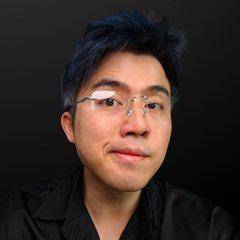
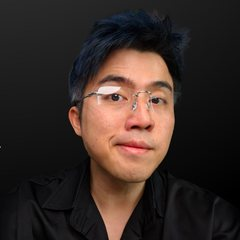
Add files via upload

diff --git a/index.html b/index.html
@@ -233,10 +233,12 @@ footer .w{display:flex;justify-content:space-between;gap:12px;flex-wrap:wrap}
 <article class="lc" id="lc-p-bao"><div class="lp"><div class="av"><img alt="Baobaochow" loading="lazy" src="img/sp-p-baobaochow.jpg"/></div><div><h4>Baobaochow</h4><small>Photographer</small></div></div><div class="lm"><div class="ltag">True Portrait</div><h5>Natural Light Portraits</h5><p>Good portraits start with finding the right light. Learn to spot soft, flattering light, place your subject in it, and keep skin tones and mood true to the moment.</p></div><div class="lr"><div class="ld"><b>15 NOV</b></div><div class="lt2">3.00PM&ndash;7.00PM</div><div class="ll">Robert&rsquo;s Wooden House, Sibu, Sarawak</div></div></article>
 <div class="lreg"><a class="btn" href="https://tinyurl.com/5ncrpnzc" rel="noopener" target="_blank">Register Here</a></div>
 </div></div>
-<div class="lt" id="zoom"><div class="eyebrow">Zoom Theme &middot; 21&ndash;22 Nov 2026</div><h3>True Zoom</h3><p class="sub">Five masterclasses reach further, from distant landscapes and wildlife to people caught at the peak of the moment.</p><div class="lcs">
+<div class="lt" id="zoom"><div class="eyebrow">Zoom Theme &middot; 21&ndash;22 Nov 2026</div><h3>True Zoom</h3><p class="sub">Seven masterclasses reach further, from distant landscapes and wildlife to people caught at the peak of the moment.</p><div class="lcs">
 <article class="lc" id="lc-z-bojio"><div class="lp"><div class="av"><img alt="Bojio杰哥" loading="lazy" src="img/sp-z-bojio.jpg"/></div><div><h4>Bojio杰哥</h4><small>Photographer</small></div></div><div class="lm"><div class="ltag">True Zoom</div><h5>Get Closer Without Moving</h5><p>Some subjects are too far, too busy or too shy to walk up to. Learn to use zoom to isolate what matters, keep the frame clean, and capture natural moments from a distance without disturbing the scene.</p></div><div class="lr"><div class="ld"><b>21 NOV</b></div><div class="lt2">10.00AM&ndash;2.00PM</div><div class="ll">Zoo Johor + Sama-sama Cuisine, Johor Bahru</div></div></article>
 <article class="lc" id="lc-z-reez"><div class="lp"><div class="av"><img alt="Reez" loading="lazy" src="img/sp-z-reez.jpg"/></div><div><h4>Reez</h4><small>Photographer</small></div></div><div class="lm"><div class="ltag">True Zoom</div><h5>Seeing Landscapes Differently</h5><p>Go beyond the wide shot. Learn to use zoom and different focal lengths to bring distant scenery closer, highlight hidden details, and create stronger landscape compositions.</p></div><div class="lr"><div class="ld"><b>21 NOV</b></div><div class="lt2">2.00PM&ndash;6.00PM</div><div class="ll">Pavilion Bukit Bintang + Lookout Point @ Changkat Tunku, Kuala Lumpur</div></div></article>
+<article class="lc" id="lc-z-zairul"><div class="lp"><div class="av"><img alt="Zairul Puad" loading="lazy" src="img/sp-zairul.jpg"/></div><div><h4>Zairul Puad</h4><small>Photographer</small></div></div><div class="lm"><div class="ltag">True Zoom</div><h5>Stories from a Distance</h5><p>Zoom lets you choose exactly what goes into the story and what stays out. Learn to pair a mural with a passerby, frame small moments from across the street, and build a series of shots that tells one story.</p></div><div class="lr"><div class="ld"><b>21 NOV</b></div><div class="lt2">2.00PM&ndash;6.00PM</div><div class="ll">My OPPO Space @ East Coast Mall + Kuantan Art Street, Kuantan</div></div></article>
 <article class="lc" id="lc-z-kelvin"><div class="lp"><div class="av"><img alt="Kelvin Chan" loading="lazy" src="img/sp-c-kelvin.jpg"/></div><div><h4>Kelvin Chan</h4><small>Photographer</small></div></div><div class="lm"><div class="ltag">True Zoom</div><h5>See Further, Frame Better</h5><p>From a bird on a branch to a boat on the river, zoom brings distant subjects into a clean, simple frame. Learn to spot what is worth reaching for, compose it with intent, and keep detail sharp at a distance.</p></div><div class="lr"><div class="ld"><b>21 NOV</b></div><div class="lt2">3.00PM&ndash;6.30PM</div><div class="ll">GoldenBay Hotel Bintulu</div></div></article>
+<article class="lc" id="lc-z-yusuf"><div class="lp"><div class="av"><img alt="Yusuf Madi" loading="lazy" src="img/sp-yusufmadi.jpg"/></div><div><h4>Yusuf Madi</h4><small>Photographer</small></div></div><div class="lm"><div class="ltag">True Zoom</div><h5>Layers in the Landscape</h5><p>From high ground, zoom pulls distant hills, sea and sky closer together into layers. Learn to compress a wide view into a tighter, stronger frame, and place a person in it to give the scene scale.</p></div><div class="lr"><div class="ld"><b>21 NOV</b></div><div class="lt2">3.00PM&ndash;7.00PM</div><div class="ll">Hillside Kokol, Kota Kinabalu</div></div></article>
 <article class="lc" id="lc-z-haziq"><div class="lp"><div class="av"><img alt="Haziq Zuki" loading="lazy" src="img/sp-haziqzuki.jpg"/></div><div><h4>Haziq Zuki</h4><small>Photographer</small></div></div><div class="lm"><div class="ltag">True Zoom</div><h5>Catching the Moment</h5><p>Zoom lets you capture people in action without stepping into the scene. Learn to anticipate movement, track your subject from a distance and press the shutter at the peak of the moment.</p></div><div class="lr"><div class="ld"><b>21 NOV</b></div><div class="lt2">4.00PM&ndash;8.30PM</div><div class="ll">Ferringhi Heart Beach Club, Penang</div></div></article>
 <article class="lc" id="lc-z-wanxin"><div class="lp"><div class="av"><img alt="Wan Xin" loading="lazy" src="img/sp-z-wanxin.jpg"/></div><div><h4>Wan Xin</h4><small>Photographer</small></div></div><div class="lm"><div class="ltag">True Zoom</div><h5>Zoom Into Details</h5><p>Sometimes, the best way to capture a moment is to get closer without being seen. Zoom allows us to observe quietly, anticipate the moment, and preserve it just as it happens.</p></div><div class="lr"><div class="ld"><b>22 NOV</b></div><div class="lt2">9.00AM&ndash;1.00PM</div><div class="ll">Tasik Cermin Ipoh</div></div></article>
 <div class="lreg"><a class="btn" href="https://tinyurl.com/5ncrpnzc" rel="noopener" target="_blank">Register Here</a></div>
@@ -487,11 +489,13 @@ var DATA={"content/copy.json":{
       "title": "Zoom",
       "type": "class",
       "time": "True Zoom",
-      "venue": "5 locations nationwide",
+      "venue": "7 locations nationwide",
       "locations": [
         {"name": "Johor Bahru", "target": "lc-z-bojio"},
         {"name": "Kuala Lumpur", "target": "lc-z-reez"},
+        {"name": "Kuantan", "target": "lc-z-zairul"},
         {"name": "Bintulu", "target": "lc-z-kelvin"},
+        {"name": "Kota Kinabalu", "target": "lc-z-yusuf"},
         {"name": "Penang", "target": "lc-z-haziq"},
         {"name": "Ipoh", "target": "lc-z-wanxin"}
       ],
